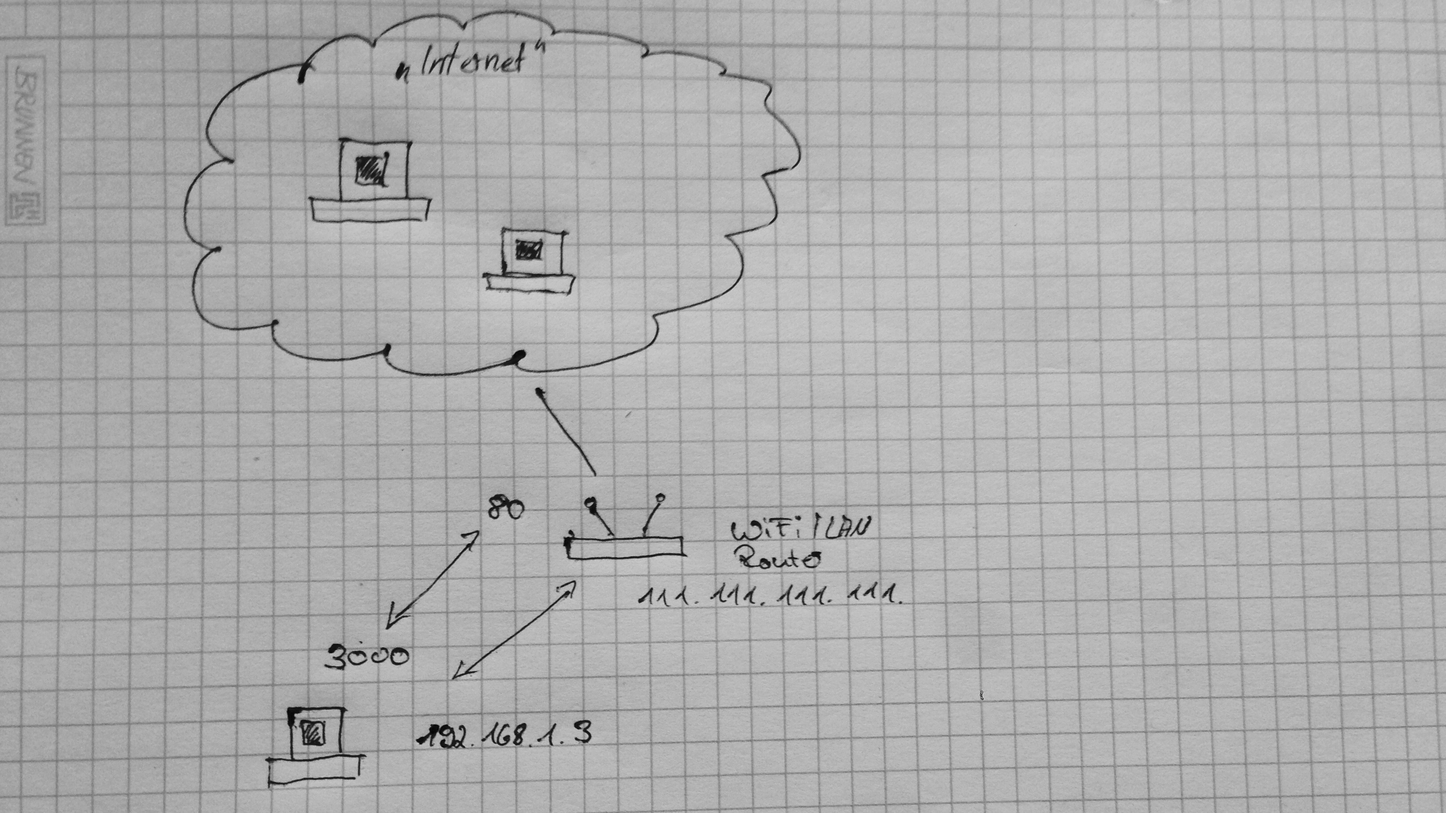
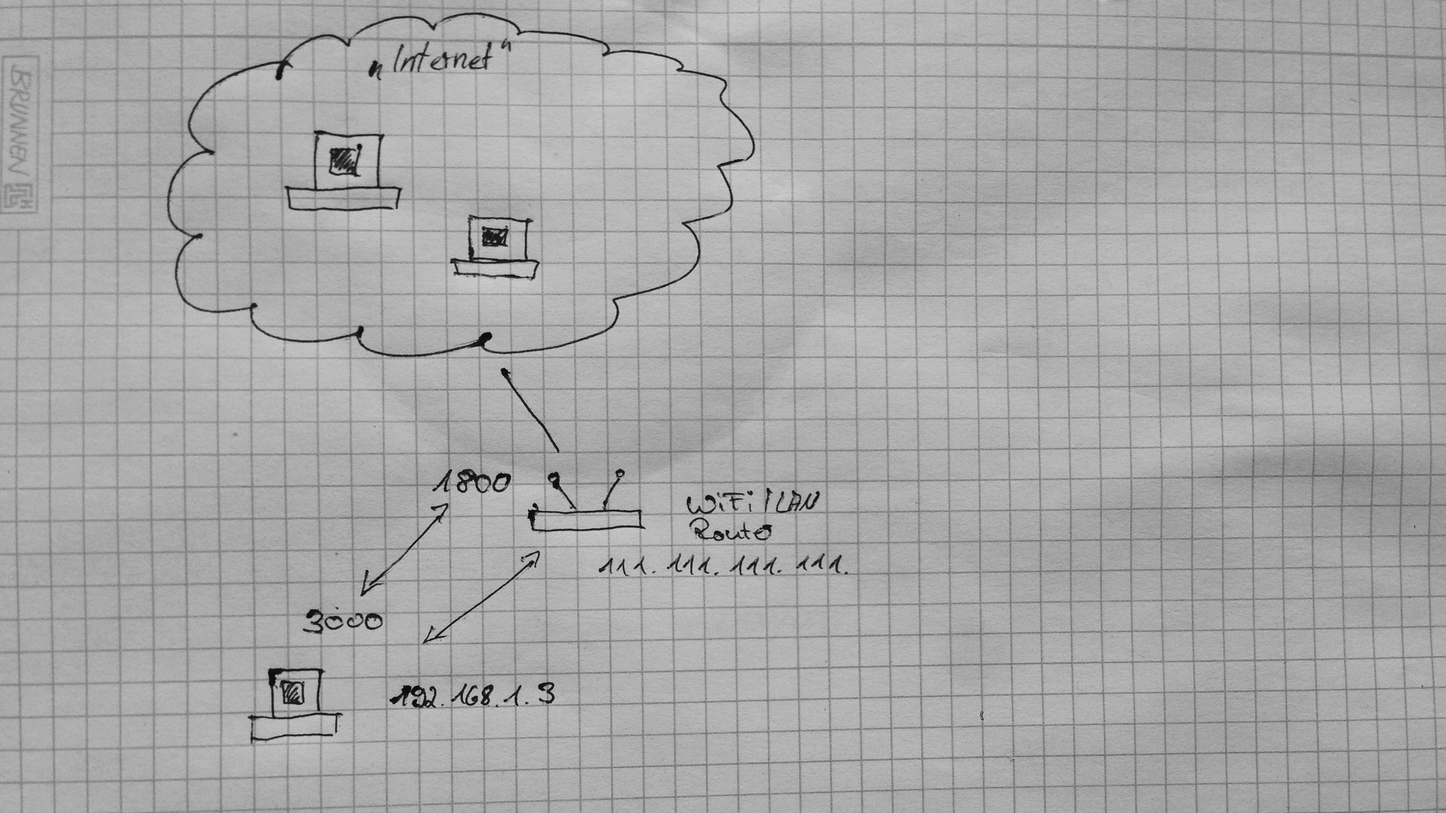
update

Changed region(s): [[0.0, 0.0, 1.0, 1.0]]

diff --git a/articles/udp/udp.md b/articles/udp/udp.md
@@ -1,8 +1,8 @@
 # Connecting IOT Networks Behind a NAT with Grenache
 
-Some of you already know that the Bitfinex team is, like many things in crypto, highly distributed. Our architecture is distributed as well.
+Some of you already know that the Bitfinex team is, like many things in crypto, highly distributed. Our architecture is distributed as well, so we have to solve a lot of interesting problems every day.
 
-Today we want to take a look how we can connect to servers which are behind a NAT, e.g. a home router. This is a common case for IOT applications and a common problem for everyone who ever tried to run a server at home. In this article we take a look how UDP Holepunching works, and create two small server applications which can connect through a NAT.
+Today we want to take a look how you can connect to servers which are behind a NAT, e.g. a home router. This is a common case for IOT applications and a common problem for everyone who ever tried to run a server at home. In this article we take a look how UDP Holepunching works, and create two small server applications which can connect through a NAT.
 
 ## Routing with local networks
 
@@ -10,12 +10,12 @@ Most routers we use at home today still use NAT. They have a public IP and an in
 
 ![NAT router and the internet](./pic1.jpg)
 
-One solution to solve the problem is create a manual routing table. The table maps a port on our public IP address to an internal IP and port. This way our server becomes reachable from the public internet:
+One solution to solve the problem is to create a manual routing table. The table maps a port on our public IP address to an internal IP and port. This way our server becomes reachable from the public internet:
 
 ![NAT with mapped ports](./mapped-ports.jpg)
 
 
-In this diagram our ISP assigns the IP `111.111.111.111` to us. If someone connects to this IP, the request will arrive at our router. In our small local network a server is running with the IP `192.168.1.3`. The two arrows or show a routing we set up, the port `3000` on our server is mapped to the port `1800`. When a request arrives at our public IP `111.111.111.111` on port `1800`, the router routes the packet to `192.168.1.3`, port `3000`.
+In this diagram our ISP assigns the public IP `111.111.111.111` to us. If someone connects to this IP, the request will arrive at our router. In our small local network a server is running with the IP `192.168.1.3`. The two arrows show a routing we set up, the port `3000` on our server is mapped to the port `1800`. When a request arrives at our public IP `111.111.111.111` on port `1800`, the router routes it to `192.168.1.3`, port `3000`.
 
 
 Sometimes we can’t create or maintain a routing table for technical or practical reasons. In those cases, we can use a practice called “UDP Holepunching”. With a UDP Holepunch, we let the router create the mapping. In the next section, we will take a closer look at it.
